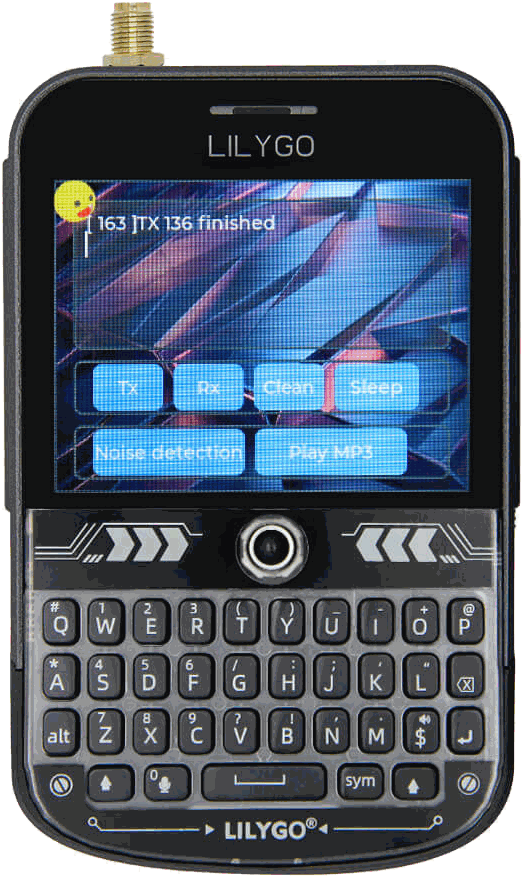
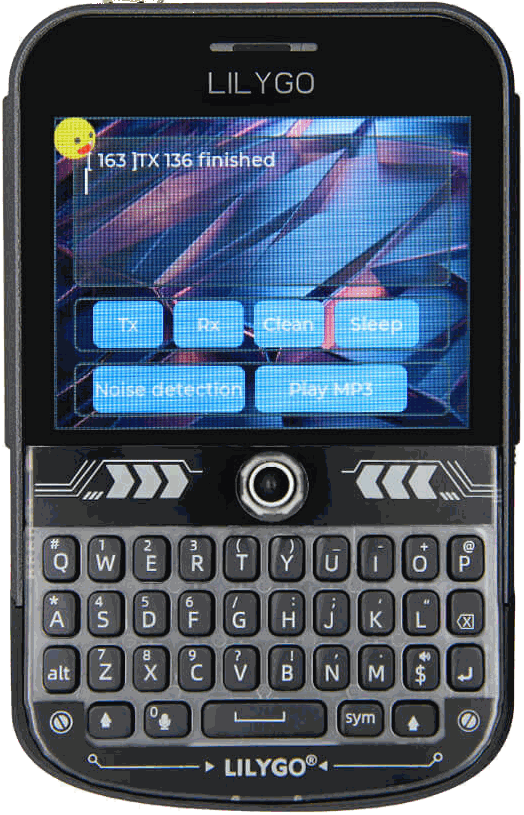
feat(web): TTC handhelds are the T-Deck Pro on tesseract and a T-Deck Plus without the SMA stub [MESHSAT-826]
Owner ruling 11 Sep 2026: tesseract's panel draws the LilyGO T-Deck Pro
(store product photo, white background removed, e-paper covered by the
live message list) instead of the T-Echo, and parallax's T-Deck Plus is
drawn without the SMA connector above the body (photo cropped at the
body edge, gold pixels cleared). The view now reads every per-handheld
fact (photo component, lane end, caption offsets, keyboard or reader)
from one DEVICES table instead of tdeck-or-techo branches; the T-Echo
stays available as a device type. Tap card added for the T-Deck Pro.

Claude-Session: https://claude.ai/code/session_01R3CWe4PSCCf5cH6PGMvE2M

diff --git a/web/src/views/TtcView.vue b/web/src/views/TtcView.vue
@@ -23,6 +23,7 @@ import { useMeshsatStore } from '@/stores/meshsat'
 import SpectrumWaterfall from '@/components/SpectrumWaterfall.vue'
 import TtcDeviceTDeck from '@/components/TtcDeviceTDeck.vue'
 import TtcDeviceTEcho from '@/components/TtcDeviceTEcho.vue'
+import TtcDeviceTDeckPro from '@/components/TtcDeviceTDeckPro.vue'
 import PowerWidget from '@/components/PowerWidget.vue'
 
 const router = useRouter()
@@ -32,16 +33,26 @@ const store = useMeshsatStore()
 // ── identity ─────────────────────────────────────────────────────────
 // Which kit is this panel? From the APRS callsign, overridable with ?kit=.
 // Booth placement (owner, 6 Sep 2026): tesseract on the LEFT of parallax.
-// The keyboard T-Deck sits with parallax, the e-paper T-Echo with
-// tesseract, so the story runs right to left across the table and the
-// screens follow the table. `side` is where the box stands, `device` is
-// what is paired with it, `mesh` the island letter.
+// The T-Deck Plus sits with parallax, the e-paper T-Deck Pro with
+// tesseract (owner, 11 Sep 2026; the T-Echo is kept as a device type),
+// so the story runs right to left across the table and the screens
+// follow the table. `side` is where the box stands, `device` is what is
+// paired with it, `mesh` the island letter.
 const KITS = {
   parallax: { name: 'parallax', callsign: 'MSPRLX-10', side: 'right', device: 'tdeck', mesh: 'B', channel: 'msat-ttc-02', modem: 'RockBLOCK 9704', peer: 'tesseract' },
-  tesseract: { name: 'tesseract', callsign: 'MSTSRT-10', side: 'left', device: 'techo', mesh: 'A', channel: 'msat-ttc-01', modem: 'RockBLOCK 9704', peer: 'parallax' },
+  tesseract: { name: 'tesseract', callsign: 'MSTSRT-10', side: 'left', device: 'tdeckpro', mesh: 'A', channel: 'msat-ttc-01', modem: 'RockBLOCK 9704', peer: 'parallax' },
 }
 const LEFT_KIT = 'tesseract'
-const DEVICE_NAME = { tdeck: 'T-Deck', techo: 'T-Echo' }
+// Everything the drawing needs per handheld: the photo component, the
+// half-width of the photo where the LoRa lane ends (near at 1.85, full at
+// 1.35), where the caption sits under it, and whether a visitor types on
+// it or only reads it.
+const DEVICES = {
+  tdeck:    { name: 'T-Deck', title: 'T-Deck Plus', sub: 'Meshtastic, keyboard', img: '/tdeck-plus.png', comp: TtcDeviceTDeck, edgeNear: 78, edgeFull: 50, nameNear: 120, nameFull: 72, keyboard: true },
+  tdeckpro: { name: 'T-Deck Pro', title: 'T-Deck Pro', sub: 'Meshtastic, keyboard, e-paper', img: '/tdeck-pro.png', comp: TtcDeviceTDeckPro, edgeNear: 72, edgeFull: 48, nameNear: 120, nameFull: 72, keyboard: true },
+  techo:    { name: 'T-Echo', title: 'T-Echo', sub: 'Meshtastic, e-paper', img: '/techo.png', comp: TtcDeviceTEcho, edgeNear: 56, edgeFull: 36, nameNear: 136, nameFull: 86, keyboard: false },
+}
+const DEVICE_NAME = Object.fromEntries(Object.entries(DEVICES).map(([k, d]) => [k, d.name]))
 const kitName = ref(route.query.kit === 'tesseract' ? 'tesseract' : route.query.kit === 'parallax' ? 'parallax' : '')
 const me = computed(() => KITS[kitName.value] || KITS.parallax)
 const peer = computed(() => KITS[me.value.peer])
@@ -52,10 +63,10 @@ const nearDev = computed(() => me.value.device)
 // drawing at 22 units (the panel shows that as 14 CSS px).
 const visitorLines = computed(() => {
   const side = nearIsLeft.value ? 'right' : 'left'
-  if (layout.value !== 'half') return ['A message typed on the T-Deck leaves over the radio and lands on the other mesh.', 'No internet, no phone network in between.']
-  return nearDev.value === 'tdeck'
-    ? ['Pick up the T-Deck and send a message.', `It leaves over the radio and lands on ${peer.value.name}, the kit on the ${side}. No internet, no phone network.`]
-    : [`Messages from ${peer.value.name}, the kit on the ${side}, arrive over the radio and land on the T-Echo.`, 'Press its button to send one back.']
+  if (layout.value !== 'half') return ['A message typed on a T-Deck leaves over the radio and lands on the other mesh.', 'No internet, no phone network in between.']
+  return DEVICES[nearDev.value].keyboard
+    ? [`Pick up the ${nearDevName.value} and send a message.`, `It leaves over the radio and lands on ${peer.value.name}, the kit on the ${side}. No internet, no phone network.`]
+    : [`Messages from ${peer.value.name}, the kit on the ${side}, arrive over the radio and land on the ${nearDevName.value}.`, 'Press its button to send one back.']
 })
 const nearDevName = computed(() => DEVICE_NAME[nearDev.value])
 const leftKit = computed(() => KITS[LEFT_KIT])
@@ -129,7 +140,7 @@ let tween = null
 let raf = 0
 
 // Geometry (SVG viewBox 1280 x 470).
-// Full route, left to right: T-Deck, parallax, air, tesseract, T-Echo.
+// Full route, left to right: T-Deck Pro, tesseract, air, parallax, T-Deck Plus.
 const G = {
   devL: { x: 150, y: 240 }, kitL: { x: 392, y: 240 }, airL: { x: 490, y: 240 },
   airR: { x: 790, y: 240 }, kitR: { x: 888, y: 240 }, devR: { x: 1130, y: 240 },
@@ -608,6 +619,17 @@ const replayAge = computed(() => {
 // ── what is this? tap cards for the drawings ─────────────────────────
 const card = ref(null)
 const cards = computed(() => ({
+  tdeckpro: {
+    title: 'LilyGO T-Deck Pro',
+    lead: 'The e-paper keyboard device on the table. Type here and the message goes out on the local LoRa mesh.',
+    facts: [
+      ['Radio', 'Semtech SX1262, LoRa at 868 MHz'],
+      ['Brain', 'ESP32-S3, Meshtastic firmware'],
+      ['Screen', '3.1 inch e-paper touch, readable with the power off, physical keyboard'],
+      ['Also', 'GPS, its own battery, no phone or internet needed'],
+      ['On this mesh', nearDev.value === 'tdeckpro' ? (nearDeviceNode.value ? `seen as ${nodeName(nearDeviceNode.value)}` : 'nothing heard from it yet') : 'on the other kit\'s mesh'],
+    ],
+  },
   tdeck: {
     title: 'LilyGO T-Deck Plus',
     lead: 'The keyboard device on the table. Type here and the message goes out on the local LoRa mesh.',
@@ -791,7 +813,7 @@ function tickAttract() {
     cycleAt = Date.now()
   }
 }
-const peerDevName = computed(() => peer.value.device === 'tdeck' ? 'T-Deck' : 'T-Echo')
+const peerDevName = computed(() => DEVICE_NAME[peer.value.device])
 
 // ── composer: double-tap the kit, type on the panel, send to either mesh ──
 // The panel has no keyboard, so the composer draws one. Local mesh is a
@@ -823,7 +845,7 @@ function openComposer() {
   composer.value = { open: true, to: 'local', text: '', shift: false, busy: false, note: '' }
 }
 function closeComposer() { composer.value.open = false }
-const deviceImg = (d) => d === 'tdeck' ? '/tdeck-plus.png' : '/techo.png'
+const deviceImg = (d) => DEVICES[d].img
 const composerOptions = computed(() => ([
   { key: 'local', title: 'Local mesh', sub: `to the ${nearDevName.value} on this table`, img: deviceImg(nearDev.value) },
   { key: 'remote', title: 'Remote mesh', sub: `to the ${peerDevName.value} at ${peer.value.name}, over the air`, img: deviceImg(peer.value.device) },
@@ -1013,8 +1035,8 @@ onUnmounted(() => {
               <text v-for="(l, i) in lastHeardLines" :key="i" :x="P.isl.x + P.isl.w / 2" :y="130 + i * 24" text-anchor="middle" class="island-sub">{{ l }}</text>
             </g>
             <g class="lanes">
-              <line :x1="nearIsLeft ? P.dev.x + (nearDev === 'tdeck' ? 78 : 56) : P.kit.x + 124" :y1="P.dev.y"
-                    :x2="nearIsLeft ? P.kit.x - 124 : P.dev.x - (nearDev === 'tdeck' ? 78 : 56)" :y2="P.dev.y" class="lane lora near" />
+              <line :x1="nearIsLeft ? P.dev.x + DEVICES[nearDev].edgeNear : P.kit.x + 124" :y1="P.dev.y"
+                    :x2="nearIsLeft ? P.kit.x - 124 : P.dev.x - DEVICES[nearDev].edgeNear" :y2="P.dev.y" class="lane lora near" />
               <g v-for="ln in lanes" :key="ln.lane" class="path tap" :class="[ln.lane, { selected: flow.path === ln.key, dim: flow.path && flow.path !== ln.key, silent: ln.lane === 'aprs' && aprsSilent, nosky: ln.lane === 'sat' && satNoModem }]" @click="selectPath(ln.key)">
                 <rect :x="Math.min(laneStartX, P.edge)" :y="laneY(ln.lane) - 40" :width="Math.abs(P.edge - laneStartX)" height="80" class="hit" />
                 <line :x1="laneStartX" :y1="laneY(ln.lane)" :x2="P.edge" :y2="laneY(ln.lane)" class="lane path-line" />
@@ -1060,10 +1082,9 @@ onUnmounted(() => {
             <!-- near device -->
             <g :transform="`translate(${P.dev.x},${P.dev.y + 26})`" class="station near tap" :class="{ flash }" @click="openCard(nearDev)">
               <rect x="-140" y="-150" width="280" height="330" class="hit" rx="16" />
-              <TtcDeviceTDeck v-if="nearDev === 'tdeck'" :scale="1.85" />
-              <TtcDeviceTEcho v-else :scale="1.85" />
-              <text :y="nearDev === 'tdeck' ? 120 : 136" text-anchor="middle" class="st-name">{{ nearDev === 'tdeck' ? 'T-Deck Plus' : 'T-Echo' }}</text>
-              <text :y="nearDev === 'tdeck' ? 144 : 160" text-anchor="middle" class="st-sub">{{ nearDev === 'tdeck' ? 'Meshtastic, keyboard' : 'Meshtastic, e-paper' }}</text>
+              <component :is="DEVICES[nearDev].comp" :scale="1.85" />
+              <text :y="DEVICES[nearDev].nameNear" text-anchor="middle" class="st-name">{{ DEVICES[nearDev].title }}</text>
+              <text :y="DEVICES[nearDev].nameNear + 24" text-anchor="middle" class="st-sub">{{ DEVICES[nearDev].sub }}</text>
             </g>
 
             <!-- near kit -->
@@ -1088,8 +1109,8 @@ onUnmounted(() => {
               <text x="806" y="117" class="island-sub">LoRa 868 MHz, a different channel key</text>
             </g>
             <g class="lanes">
-              <line :x1="G.devL.x + (leftKit.device === 'tdeck' ? 50 : 36)" :y1="G.devL.y" :x2="G.kitL.x - 84" :y2="G.kitL.y" class="lane lora" :class="leftKit.name === me.name ? 'near' : (farAlive ? 'far-alive' : 'far')" />
-              <line :x1="G.kitR.x + 84" :y1="G.kitR.y" :x2="G.devR.x - (rightKit.device === 'tdeck' ? 50 : 36)" :y2="G.devR.y" class="lane lora" :class="rightKit.name === me.name ? 'near' : (farAlive ? 'far-alive' : 'far')" />
+              <line :x1="G.devL.x + DEVICES[leftKit.device].edgeFull" :y1="G.devL.y" :x2="G.kitL.x - 84" :y2="G.kitL.y" class="lane lora" :class="leftKit.name === me.name ? 'near' : (farAlive ? 'far-alive' : 'far')" />
+              <line :x1="G.kitR.x + 84" :y1="G.kitR.y" :x2="G.devR.x - DEVICES[rightKit.device].edgeFull" :y2="G.devR.y" class="lane lora" :class="rightKit.name === me.name ? 'near' : (farAlive ? 'far-alive' : 'far')" />
               <g v-for="ln in lanes" :key="ln.lane" class="path tap" :class="[ln.lane, { selected: flow.path === ln.key, dim: flow.path && flow.path !== ln.key, silent: ln.lane === 'aprs' && aprsSilent }]" @click="selectPath(ln.key)">
                 <rect :x="G.airL.x" :y="laneY(ln.lane) - 36" :width="G.airR.x - G.airL.x" height="72" class="hit" />
                 <line :x1="G.airL.x" :y1="laneY(ln.lane)" :x2="G.airR.x" :y2="laneY(ln.lane)" class="lane path-line" />
@@ -1124,10 +1145,9 @@ onUnmounted(() => {
             <!-- left slot: device + kit -->
             <g :transform="`translate(${G.devL.x},${G.devL.y})`" class="station tap" :class="[leftKit.name === me.name ? 'near' : (farAlive ? 'far-alive' : 'far'), { flash: flash && leftKit.name === me.name }]" @click="openCard(leftKit.device)">
               <rect x="-90" y="-80" width="180" height="180" class="hit" rx="14" />
-              <TtcDeviceTDeck v-if="leftKit.device === 'tdeck'" />
-              <TtcDeviceTEcho v-else />
-              <text :y="leftKit.device === 'tdeck' ? 72 : 86" text-anchor="middle" class="st-name">{{ leftKit.device === 'tdeck' ? 'T-Deck Plus' : 'T-Echo' }}</text>
-              <text :y="leftKit.device === 'tdeck' ? 90 : 104" text-anchor="middle" class="st-sub">{{ leftKit.device === 'tdeck' ? 'Meshtastic, keyboard' : 'Meshtastic, e-paper' }}</text>
+              <component :is="DEVICES[leftKit.device].comp" />
+              <text :y="DEVICES[leftKit.device].nameFull" text-anchor="middle" class="st-name">{{ DEVICES[leftKit.device].title }}</text>
+              <text :y="DEVICES[leftKit.device].nameFull + 18" text-anchor="middle" class="st-sub">{{ DEVICES[leftKit.device].sub }}</text>
             </g>
             <g :transform="`translate(${G.kitL.x},${G.kitL.y})`" class="station kit tap" :class="[leftKit.name === me.name ? 'near' : (farAlive ? 'far-alive' : 'far'), { flash: flash && leftKit.name === me.name }]" @click="kitTap">
               <rect x="-90" y="-112" width="180" height="250" class="hit" rx="14" />
@@ -1145,10 +1165,9 @@ onUnmounted(() => {
             </g>
             <g :transform="`translate(${G.devR.x},${G.devR.y})`" class="station tap" :class="[rightKit.name === me.name ? 'near' : (farAlive ? 'far-alive' : 'far'), { flash: flash && rightKit.name === me.name }]" @click="openCard(rightKit.device)">
               <rect x="-90" y="-80" width="180" height="180" class="hit" rx="14" />
-              <TtcDeviceTDeck v-if="rightKit.device === 'tdeck'" />
-              <TtcDeviceTEcho v-else />
-              <text :y="rightKit.device === 'tdeck' ? 72 : 86" text-anchor="middle" class="st-name">{{ rightKit.device === 'tdeck' ? 'T-Deck Plus' : 'T-Echo' }}</text>
-              <text :y="rightKit.device === 'tdeck' ? 90 : 104" text-anchor="middle" class="st-sub">{{ rightKit.device === 'tdeck' ? 'Meshtastic, keyboard' : 'Meshtastic, e-paper' }}</text>
+              <component :is="DEVICES[rightKit.device].comp" />
+              <text :y="DEVICES[rightKit.device].nameFull" text-anchor="middle" class="st-name">{{ DEVICES[rightKit.device].title }}</text>
+              <text :y="DEVICES[rightKit.device].nameFull + 18" text-anchor="middle" class="st-sub">{{ DEVICES[rightKit.device].sub }}</text>
             </g>
 
             <text :x="nearIsLeft ? 1012 : 268" y="446" text-anchor="middle" class="far-note">
@@ -1175,7 +1194,7 @@ onUnmounted(() => {
         </div>
         <div class="min-w-0 flex-1 flex flex-col justify-center">
           <button type="button" class="text-left w-full font-display leading-tight break-words" :class="current ? [msgSize, 'text-gray-50 line-clamp-2'] : 'font-sans text-[15px] text-gray-500'" @click="toggleText" :title="showText ? 'Tap to hide message text' : 'Tap to show message text'">
-            {{ current ? displayText(current) : (nearDev === 'tdeck' ? 'Your message appears here the moment this kit hears it.' : 'The next message from the other kit appears here the moment it lands.') }}
+            {{ current ? displayText(current) : (DEVICES[nearDev].keyboard ? 'Your message appears here the moment this kit hears it.' : 'The next message from the other kit appears here the moment it lands.') }}
           </button>
           <div v-if="current" class="font-sans text-[13px] leading-4 text-gray-300 line-clamp-2">
             {{ statusLine }}

diff --git a/web/src/components/TtcDeviceTDeckPro.vue b/web/src/components/TtcDeviceTDeckPro.vue
@@ -1,0 +1,23 @@
+<script setup>
+// LilyGO T-Deck Pro, front view: the product photo (LilyGO store, white
+// background removed) with the demo firmware's e-paper covered by a live
+// message list in the TTC line language. Geometry in device units: the
+// photo is 369 x 665 px scaled to 66.6 x 120, e-paper at photo
+// (55..315, 42..390). The invisible .body rect carries the flash
+// outline. [MESHSAT-826]
+defineProps({ scale: { type: Number, default: 1.35 } })
+</script>
+
+<template>
+  <g class="device photo paper tdeckpro" :transform="`scale(${scale})`">
+    <image href="/tdeck-pro.png" x="-33.3" y="-79" width="66.6" height="120" class="photo-img" preserveAspectRatio="xMidYMid meet" />
+    <rect x="-33.6" y="-79.4" width="67.2" height="120.8" rx="7" class="body" />
+    <rect x="-23.4" y="-71.4" width="46.9" height="62.8" rx="0.8" class="epaper" />
+    <g class="ink">
+      <rect x="-19.4" y="-65.4" width="22" height="2.4" rx="0.8" /><rect x="-19.4" y="-59.6" width="34" height="2.4" rx="0.8" />
+      <rect x="-19.4" y="-53.8" width="28" height="2.4" rx="0.8" /><rect x="-19.4" y="-48" width="36" height="2.4" rx="0.8" />
+      <rect x="-19.4" y="-42.2" width="18" height="2.4" rx="0.8" /><rect x="-19.4" y="-36.4" width="31" height="2.4" rx="0.8" />
+      <rect x="-19.4" y="-30.6" width="25" height="2.4" rx="0.8" /><rect x="-19.4" y="-24.8" width="14" height="2.4" rx="0.8" />
+    </g>
+  </g>
+</template>

diff --git a/web/src/components/TtcDeviceTDeck.vue b/web/src/components/TtcDeviceTDeck.vue
@@ -1,16 +1,17 @@
 <script setup>
 // LilyGO T-Deck Plus, front view: the product photo (LilyGO store, white
-// background removed) with the demo firmware's screen covered by a live
+// background removed, the SMA stub above the body cropped away, owner
+// ruling 11 Sep 2026) with the demo firmware's screen covered by a live
 // conversation drawn in the TTC line language. Geometry in device units:
-// the photo is 524 x 878 px scaled to 72 x 120.6, screen at photo
-// (52..478, 176..494). The invisible .body rect carries the flash
+// the photo is 524 x 815 px scaled to 72 x 112, screen at photo
+// (52..478, 113..431). The invisible .body rect carries the flash
 // outline. [MESHSAT-826]
 defineProps({ scale: { type: Number, default: 1.35 } })
 </script>
 
 <template>
   <g class="device photo tdeck" :transform="`scale(${scale})`">
-    <image href="/tdeck-plus.png" x="-36" y="-79" width="72" height="120.6" class="photo-img" preserveAspectRatio="xMidYMid meet" />
+    <image href="/tdeck-plus.png" x="-36" y="-70.3" width="72" height="112" class="photo-img" preserveAspectRatio="xMidYMid meet" />
     <rect x="-36.6" y="-71.4" width="73.2" height="113.6" rx="8" class="body" />
     <rect x="-28.9" y="-54.8" width="58.5" height="43.7" rx="0.6" class="screen" />
     <g class="ui">
